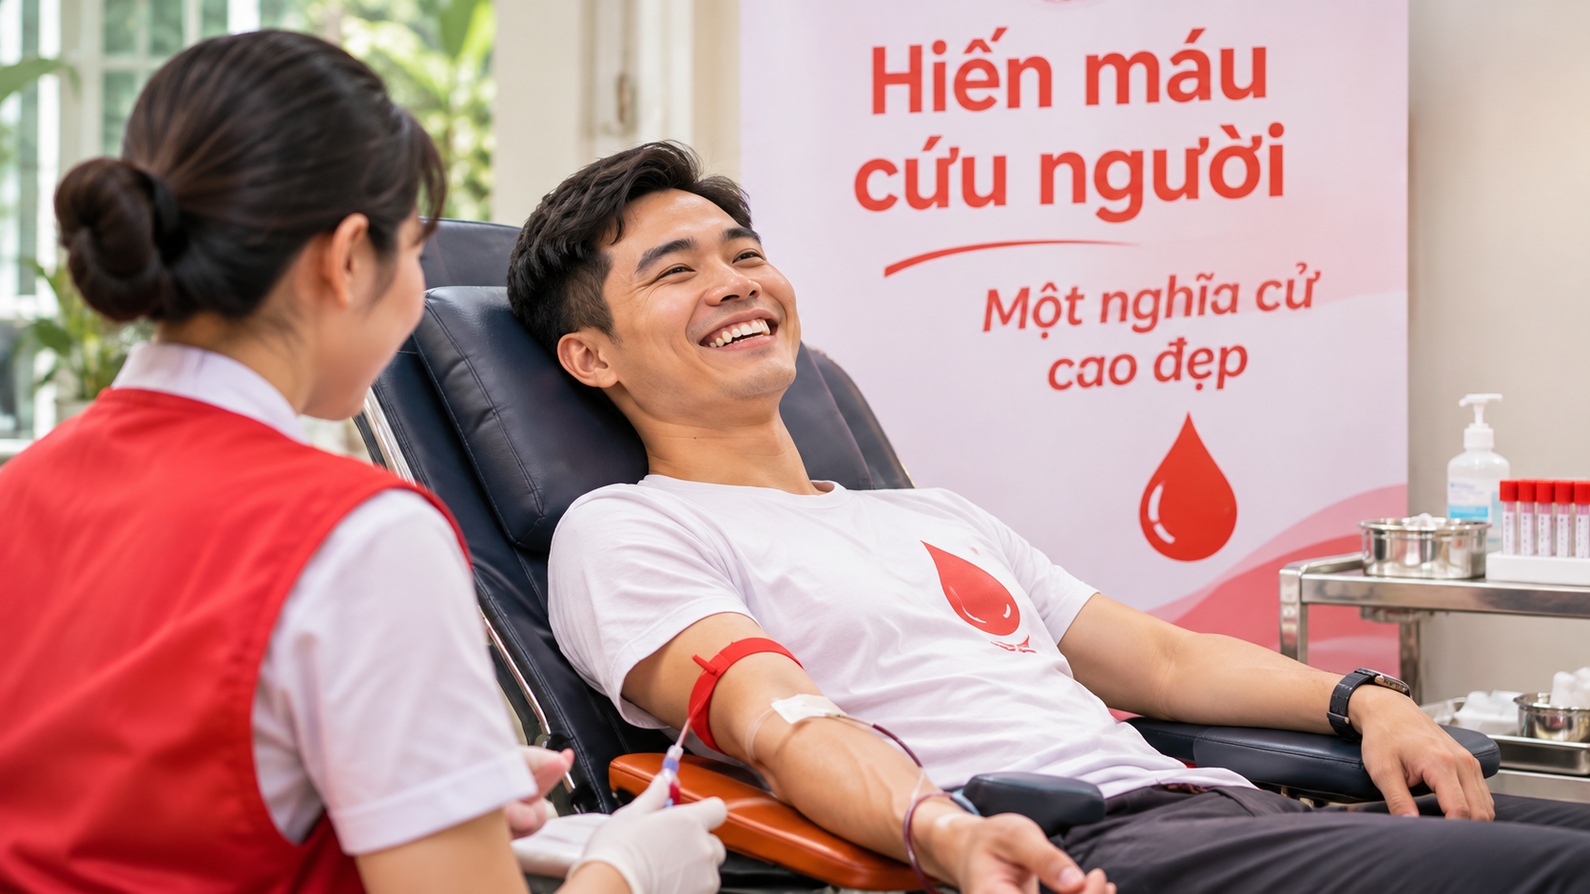
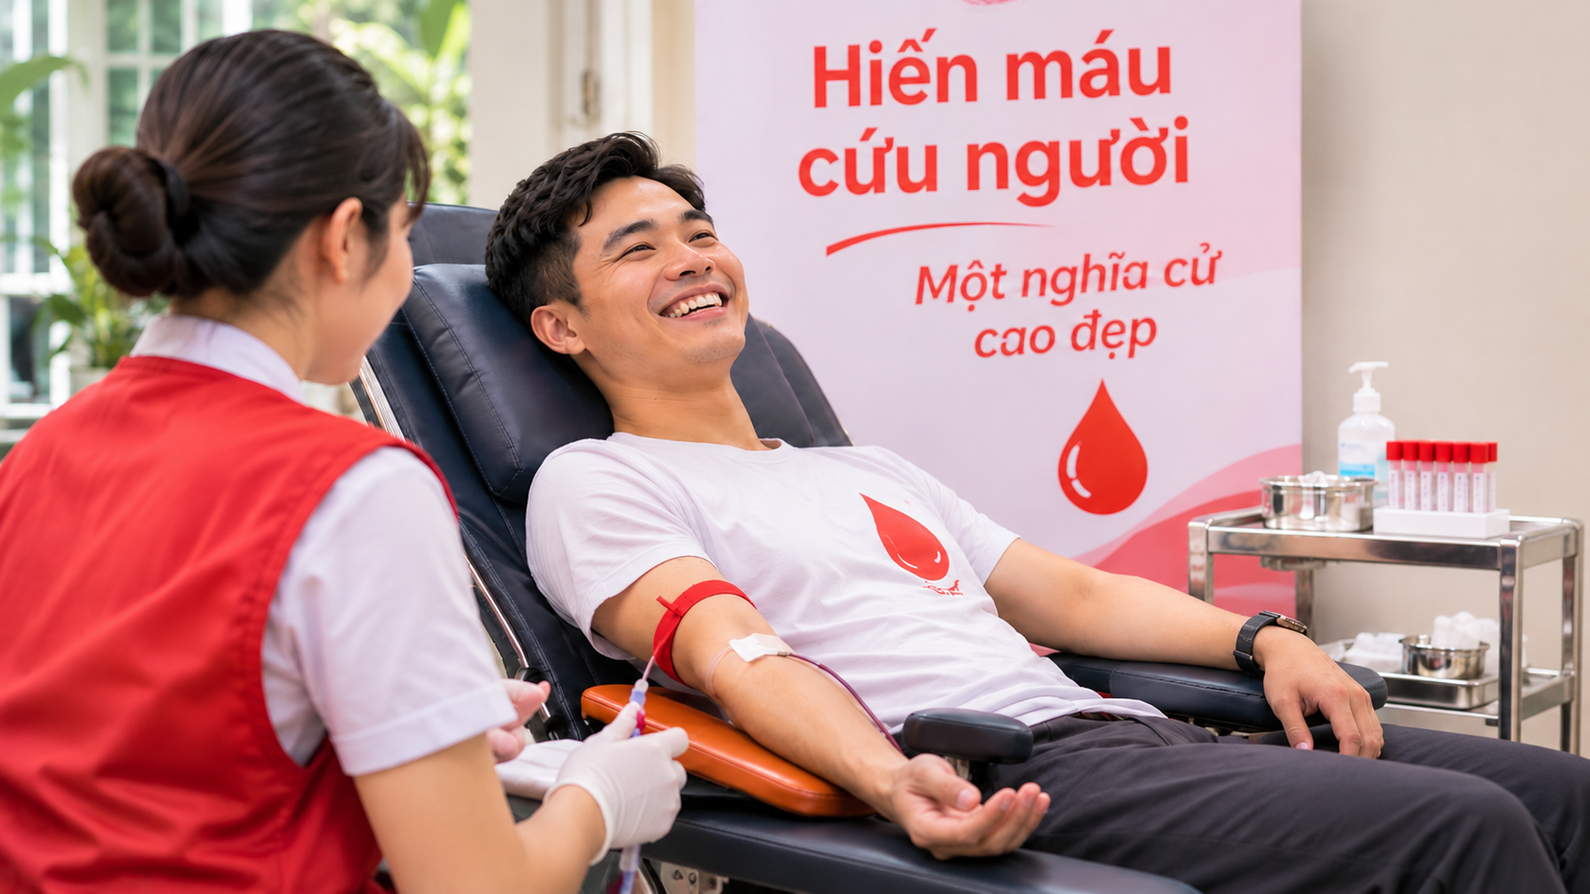
Ho so: form Dang ky hien mau chon Tinh/Thanh pho truoc, lich hien mau thang 1-12/2027; Trang chu: doi chu the Hien mau
- Form Dang ky hien mau: hang 1 gom Tinh/Thanh pho (chon truoc) · Chuong trinh hien mau (loc theo tinh) · Thoi gian va dia diem; them 12 chuong trinh "Lich hien mau thang 1-12/2027" co o moi tinh (2 buoi/thang); chu dai trong 3 o chon hien "…" + title; rut gon dia diem minh hoa Ha Noi
- Trang chu: the Hien mau doi tieu de "Hien giot mau dao, trao doi su song" va cau "Moi giot mau cho di - mot cuoc doi o lai"

diff --git a/ho-so.js b/ho-so.js
@@ -1821,30 +1821,44 @@ const VOL_KINDS = {
 // Chương trình sắp diễn ra có nhiều buổi hiến (sessions: ngày + địa điểm cụ thể) → form cho người dùng chọn 1 buổi sau khi chọn chương trình.
 // date / place: buổi đầu tiên (mặc định; chương trình đã diễn ra chỉ có 1 buổi).
 const BLOOD_EVENTS = [
-  { name: 'Hiến máu tình nguyện tại Cung Thanh niên Hà Nội', place: 'Cung Thanh niên Hà Nội (37 Trần Bình Trọng, Hà Nội)', date: '2026-11-22',
-    sessions: [{ date: '2026-11-22', place: 'Cung Thanh niên Hà Nội (37 Trần Bình Trọng, Hà Nội)' }, { date: '2026-11-23', place: 'phường Cửa Nam (Số 82 Nguyễn Du, Hà Nội)' }],
+  { name: 'Hiến máu tình nguyện tại Cung Thanh niên Hà Nội', province: 'Thành phố Hà Nội', place: 'Cung Thanh niên Hà Nội (37 Trần Bình Trọng)', date: '2026-11-22',
+    sessions: [{ date: '2026-11-22', place: 'Cung Thanh niên Hà Nội (37 Trần Bình Trọng)' }, { date: '2026-11-23', place: 'phường Cửa Nam (82 Nguyễn Du)' }],
     desc: 'Ngày hội hiến máu tình nguyện dành cho đoàn viên, sinh viên và người dân Thủ đô, góp phần bổ sung nguồn máu dự trữ cho các bệnh viện dịp cuối năm. Người hiến máu được khám sàng lọc, tư vấn sức khỏe miễn phí và nhận giấy chứng nhận hiến máu tình nguyện.' },
   // Các buổi theo mẫu khách hàng gửi (Thanh Hóa)
-  { name: 'Hiến máu tình nguyện tỉnh Thanh Hóa cuối năm 2026', place: 'phường Bỉm Sơn', date: '2026-12-01',
+  { name: 'Hiến máu tình nguyện tỉnh Thanh Hóa cuối năm 2026', province: 'Tỉnh Thanh Hóa', place: 'phường Bỉm Sơn', date: '2026-12-01',
     sessions: [{ date: '2026-12-01', place: 'phường Bỉm Sơn' }, { date: '2026-12-03', place: 'phường Nam Sầm Sơn' }, { date: '2026-12-06', place: 'xã Cẩm Thạch' }, { date: '2026-12-08', place: 'phường Quang Trung' }, { date: '2026-12-10', place: 'Cty Lọc hóa dầu Nghi Sơn' }],
     desc: 'Chuỗi ngày hội hiến máu lưu động tại các phường, xã và doanh nghiệp trên địa bàn tỉnh Thanh Hóa, tiếp nhận máu cho dịp cao điểm cuối năm. Mỗi điểm có khu tư vấn sức khỏe, khám sàng lọc và hướng dẫn chăm sóc sau hiến máu.' },
-  { name: 'Hiến máu tình nguyện khối cơ quan Hà Nội', place: 'Nhà văn hóa phường Cửa Nam (Số 82 Nguyễn Du, Hà Nội)', date: '2026-12-13',
-    sessions: [{ date: '2026-12-13', place: 'Nhà văn hóa phường Cửa Nam (Số 82 Nguyễn Du, Hà Nội)' }, { date: '2026-12-13', place: 'Viện Huyết học – Truyền máu Trung ương (26 Phạm Văn Bạch, Hà Nội)' }],
+  { name: 'Hiến máu tình nguyện khối cơ quan Hà Nội', province: 'Thành phố Hà Nội', place: 'Nhà văn hóa phường Cửa Nam (82 Nguyễn Du)', date: '2026-12-13',
+    sessions: [{ date: '2026-12-13', place: 'Nhà văn hóa phường Cửa Nam (82 Nguyễn Du)' }, { date: '2026-12-13', place: 'Viện Huyết học – Truyền máu Trung ương' }],
     desc: 'Chương trình dành cho cán bộ, công chức, người lao động các cơ quan, doanh nghiệp trên địa bàn, khuyến khích đăng ký theo đơn vị. Đơn vị có nhiều người tham gia được Hội ghi nhận và cấp giấy khen.' },
-  { name: 'Lễ hội Xuân hồng 2027', place: 'Bệnh viện Đa khoa tỉnh Hà Tĩnh', date: '2027-01-17',
+  { name: 'Lễ hội Xuân hồng 2027', province: 'Tỉnh Hà Tĩnh', place: 'Bệnh viện Đa khoa tỉnh Hà Tĩnh', date: '2027-01-17',
     sessions: [{ date: '2027-01-17', place: 'Bệnh viện Đa khoa tỉnh Hà Tĩnh' }, { date: '2027-01-18', place: 'Trung tâm Văn hóa – Điện ảnh tỉnh Hà Tĩnh' }, { date: '2027-01-19', place: 'Bệnh viện Đa khoa tỉnh Hà Tĩnh' }],
     desc: 'Lễ hội hiến máu dịp trước Tết Nguyên đán, bảo đảm đủ máu cho người bệnh trong và sau Tết. Mỗi người hiến máu nhận quà Tết, giấy chứng nhận và được ưu tiên khi cần truyền máu.' },
-  { name: 'Hiến máu tình nguyện đợt 2 năm 2026', place: 'Hội Chữ thập đỏ tỉnh Hà Tĩnh (Số 2 Phan Đình Phùng, Hà Tĩnh)', date: '2026-08-16', time: 'Từ 7h30 ngày 16/08/2026 (Chủ nhật)',
+  { name: 'Hiến máu tình nguyện đợt 2 năm 2026', province: 'Tỉnh Hà Tĩnh', place: 'Hội Chữ thập đỏ tỉnh Hà Tĩnh (Số 2 Phan Đình Phùng, Hà Tĩnh)', date: '2026-08-16', time: 'Từ 7h30 ngày 16/08/2026 (Chủ nhật)',
     desc: 'Đợt hiến máu tình nguyện thứ hai trong năm của Hội Chữ thập đỏ tỉnh Hà Tĩnh, bổ sung nguồn máu dịp hè.' },
-  { name: 'Lễ hội Xuân hồng 2026', place: 'Bệnh viện Đa khoa tỉnh Hà Tĩnh', date: '2026-02-01', time: 'Từ 7h30 ngày 01/02/2026 (Chủ nhật)',
+  { name: 'Lễ hội Xuân hồng 2026', province: 'Tỉnh Hà Tĩnh', place: 'Bệnh viện Đa khoa tỉnh Hà Tĩnh', date: '2026-02-01', time: 'Từ 7h30 ngày 01/02/2026 (Chủ nhật)',
     desc: 'Lễ hội hiến máu dịp trước Tết Nguyên đán 2026, bảo đảm đủ máu cho người bệnh trong và sau Tết.' },
-  { name: 'Ngày hội hiến máu mùa hè 2025', place: 'Trung tâm Văn hóa – Điện ảnh tỉnh Hà Tĩnh', date: '2025-07-06', time: 'Từ 7h30 ngày 06/07/2025 (Chủ nhật)',
+  { name: 'Ngày hội hiến máu mùa hè 2025', province: 'Tỉnh Hà Tĩnh', place: 'Trung tâm Văn hóa – Điện ảnh tỉnh Hà Tĩnh', date: '2025-07-06', time: 'Từ 7h30 ngày 06/07/2025 (Chủ nhật)',
     desc: 'Ngày hội hiến máu mùa hè dành cho học sinh, sinh viên và người dân trên địa bàn tỉnh.' },
 ];
+// ---------- Lịch hiến máu hằng tháng (DỮ LIỆU MINH HỌA): tháng 1 → 12/2027, mỗi tháng 1 chương trình, có ở mọi tỉnh/thành (province '*');
+// buổi hiến tạo theo tỉnh đang chọn: ngày 10 tại Trụ sở Hội Chữ thập đỏ tỉnh · ngày 25 tại Bệnh viện Đa khoa tỉnh ----------
+const BLOOD_YEAR = 2027;
+for (let m = 1; m <= 12; m++) {
+  const mm = String(m).padStart(2, '0');
+  BLOOD_EVENTS.push({ name: `Lịch hiến máu tháng ${m}/${BLOOD_YEAR}`, province: '*', monthly: { y: BLOOD_YEAR, mm }, date: `${BLOOD_YEAR}-${mm}-10`,
+    desc: `Lịch hiến máu tình nguyện định kỳ tháng ${m}/${BLOOD_YEAR} của Hội Chữ thập đỏ tỉnh/thành phố: tiếp nhận máu 2 buổi trong tháng, có khám sàng lọc, tư vấn sức khỏe và giấy chứng nhận hiến máu tình nguyện.` });
+}
 const BLOOD_NO_EVENT = { name: '', place: '', date: '', desc: '' }; // chưa chọn chương trình
 const bloodEvent = (name) => BLOOD_EVENTS.find((e) => e.name === name) || BLOOD_NO_EVENT;
-// Các buổi hiến của chương trình (chương trình 1 buổi: lấy date/place) · nhãn lựa chọn "Ngày: dd/mm/yyyy – địa điểm" (như mẫu)
-const bloodSessions = (e) => e.sessions || (e.date ? [{ date: e.date, place: e.place }] : []);
+// Các buổi hiến của chương trình (chương trình 1 buổi: lấy date/place; lịch hằng tháng: theo tỉnh) · nhãn lựa chọn "Ngày: dd/mm/yyyy – địa điểm" (như mẫu)
+const bloodSessions = (e, province = '') => {
+  if (e.monthly) {
+    const p = province ? province.charAt(0).toLowerCase() + province.slice(1) : 'tỉnh/thành phố';
+    return [{ date: `${e.monthly.y}-${e.monthly.mm}-10`, place: `Trụ sở Hội Chữ thập đỏ ${p}` }, { date: `${e.monthly.y}-${e.monthly.mm}-25`, place: `Bệnh viện Đa khoa ${p}` }];
+  }
+  return e.sessions || (e.date ? [{ date: e.date, place: e.place }] : []);
+};
 const bloodSessionLabel = (s) => `Ngày: ${viDate(s.date)} – ${s.place}`;
 // Phiếu: ngày hiến (ISO) và địa điểm đã chọn; phiếu cũ chưa có thì lấy mặc định của chương trình
 const bloodPickedDate = (d) => d.time || bloodEvent(d.event).date;
@@ -5823,9 +5837,11 @@ const bdNote = document.querySelector('#bd-screen-note');
 let bloodTrigger = null;
 let bloodSaved = ''; // dữ liệu lúc mở / lưu gần nhất — khác thì hỏi trước khi rời form
 let bloodViewing = false; // đang xem hồ sơ đã nộp (chỉ đọc)
-// ---------- Chương trình hiến máu (bắt buộc): chỉ chương trình còn mốc sắp diễn ra (từ hôm nay), sớm nhất lên đầu;
+// ---------- Tỉnh/Thành phố (chọn trước) → Chương trình hiến máu của tỉnh đó (bắt buộc): chỉ chương trình còn mốc sắp diễn ra (từ hôm nay), sớm nhất lên đầu;
 // chọn → nạp danh sách buổi hiến "Ngày: dd/mm/yyyy – địa điểm" để chọn 1 (chỉ 1 buổi thì chọn sẵn), Mô tả chương trình tự điền (khóa).
 // Xem hồ sơ cũ: chương trình / buổi đã diễn ra vẫn hiện ----------
+const bdEventProvince = document.querySelector('#bd-event-province');
+fillOptions(bdEventProvince, (window.DigitalMapLocations || []).map((p) => p.name).concat(window.DigitalMapLocations ? [] : REG_PROVINCES));
 const bdEvent = document.querySelector('#bd-event');
 const bdSession = document.querySelector('#bd-event-session');
 const sessionKey = (date, place) => (date ? `${date}|${place}` : '');
@@ -5834,22 +5850,30 @@ const fillBloodSessions = (time = '', place = '') => {
   const e = bloodEvent(bdEvent.value);
   const on = Boolean(bdEvent.value);
   const keep = sessionKey(time, place);
-  const list = bloodSessions(e).filter((s) => s.date >= isoToday() || sessionKey(s.date, s.place) === keep); // buổi đã qua chỉ hiện khi xem phiếu cũ
+  const list = bloodSessions(e, bdEventProvince.value).filter((s) => s.date >= isoToday() || sessionKey(s.date, s.place) === keep); // buổi đã qua chỉ hiện khi xem phiếu cũ
   bdSession.innerHTML = `<option value="">${on ? 'Chọn thời gian và địa điểm' : 'Chọn chương trình trước'}</option>`
     + list.map((s) => `<option value="${escapeHtml(sessionKey(s.date, s.place))}">${escapeHtml(bloodSessionLabel(s))}</option>`).join('');
   bdSession.disabled = !on;
   bdSession.value = keep || (list.length === 1 ? sessionKey(list[0].date, list[0].place) : '');
   document.querySelector('#bd-event-desc').value = e.desc;
 };
-const fillBloodEvents = (selected = '', time = '', place = '') => {
-  const lastDate = (e) => bloodSessions(e).reduce((m, s) => (s.date > m ? s.date : m), '');
-  const upcoming = BLOOD_EVENTS.filter((e) => lastDate(e) >= isoToday()).sort((a, b) => a.date.localeCompare(b.date)).map((e) => e.name);
+// province: tỉnh đang chọn (mở phiếu cũ: tỉnh của chương trình); chưa chọn tỉnh → khóa ô Chương trình
+const fillBloodEvents = (selected = '', time = '', place = '', province = selected ? bloodEvent(selected).province || '' : '') => {
+  bdEventProvince.value = province;
+  const lastDate = (e) => bloodSessions(e, province).reduce((m, s) => (s.date > m ? s.date : m), '');
+  const upcoming = BLOOD_EVENTS.filter((e) => (e.province === province || e.province === '*') && lastDate(e) >= isoToday()).sort((a, b) => a.date.localeCompare(b.date)).map((e) => e.name);
   if (selected && !upcoming.includes(selected)) upcoming.unshift(selected);
-  bdEvent.innerHTML = '<option value="">Chọn chương trình hiến máu</option>';
+  const hint = !province ? 'Chọn tỉnh/thành phố trước' : upcoming.length ? 'Chọn chương trình hiến máu' : 'Chưa có chương trình hiến máu tại tỉnh/thành phố này';
+  bdEvent.innerHTML = `<option value="">${hint}</option>`;
   fillOptions(bdEvent, upcoming);
+  bdEvent.disabled = !province;
   bdEvent.value = selected;
   fillBloodSessions(time, place);
 };
+bdEventProvince.addEventListener('change', () => {
+  fillBloodEvents('', '', '', bdEventProvince.value);
+  [bdEventProvince, bdEvent, bdSession].forEach((el) => el.closest('.pf-field').classList.remove('is-invalid'));
+});
 bdEvent.addEventListener('change', () => {
   fillBloodSessions();
   [bdEvent, bdSession].forEach((el) => el.closest('.pf-field').classList.remove('is-invalid'));
@@ -5857,6 +5881,8 @@ bdEvent.addEventListener('change', () => {
   bdLastText.closest('.pf-field').classList.remove('is-invalid');
 });
 bdSession.addEventListener('change', () => bdLastText.closest('.pf-field').classList.remove('is-invalid'));
+// Hàng 3 ô chọn: chữ dài bị "…" → rê chuột xem đủ nội dung (title = lựa chọn đang hiện)
+[bdEventProvince, bdEvent, bdSession].forEach((sel) => sel.addEventListener('change', () => { [bdEventProvince, bdEvent, bdSession].forEach((s) => { s.title = s.selectedOptions[0] ? s.selectedOptions[0].textContent : ''; }); }));
 bloodPanel.tabIndex = -1;
 
 // ---------- Nhóm nút chọn (radio): đọc / đặt giá trị theo name ----------
@@ -5965,6 +5991,7 @@ document.querySelector('#bd-phone').addEventListener('input', (event) => { event
 
 // ---------- Đọc / điền dữ liệu biểu mẫu ----------
 const bloodFormData = () => ({
+  eventProvince: bdEventProvince.value, // tỉnh/thành của chương trình (chọn trước chương trình)
   event: bdEvent.value,
   time: pickedSession().date, // buổi hiến đã chọn: ngày (ISO) · địa điểm
   place: pickedSession().place,
@@ -5992,7 +6019,8 @@ const bloodFormData = () => ({
 const loadBlood = (d) => {
   bloodForm.querySelectorAll('.pf-field.is-invalid').forEach((field) => field.classList.remove('is-invalid'));
   document.querySelector('#bd-commit-error').hidden = true;
-  fillBloodEvents(d.event, d.event ? bloodPickedDate(d) : '', d.event ? bloodPickedPlace(d) : '');
+  const evProvince = bloodEvent(d.event).province;
+  fillBloodEvents(d.event, d.event ? bloodPickedDate(d) : '', d.event ? bloodPickedPlace(d) : '', d.eventProvince || (evProvince && evProvince !== '*' ? evProvince : ''));
   setBloodProxy(Boolean(d.proxy), d.person || {});
   document.querySelector('#bd-phone').value = d.phone;
   bdAddrProvince.value = d.addrProvince || '';
@@ -6015,7 +6043,7 @@ const loadBlood = (d) => {
 };
 // Đăng ký mới: form trống (chọn chương trình trước); điện thoại lấy từ tài khoản
 const resetBlood = () => {
-  loadBlood({ event: '', time: '', place: '', proxy: false, person: null, phone: TEAM_ACCOUNT.phone, addrProvince: '', addrWard: '', address: '', work: '', ever: '', times: '', last: '', q: {}, slot: '', agree: false, privacy: false });
+  loadBlood({ eventProvince: '', event: '', time: '', place: '', proxy: false, person: null, phone: TEAM_ACCOUNT.phone, addrProvince: '', addrWard: '', address: '', work: '', ever: '', times: '', last: '', q: {}, slot: '', agree: false, privacy: false });
   bloodStatus.textContent = '';
 };
 // Chế độ: điền biểu mẫu · xem phiếu đã gửi (khóa toàn bộ, tiêu đề kèm mã phiếu, chân chỉ còn nút Đóng)

diff --git a/ho-so.html b/ho-so.html
@@ -9,7 +9,7 @@
     <link rel="preconnect" href="https://fonts.googleapis.com" />
     <link rel="preconnect" href="https://fonts.gstatic.com" crossorigin />
     <link href="https://fonts.googleapis.com/css2?family=Be+Vietnam+Pro:ital,wght@0,400;0,500;0,600;0,700;0,800;1,400&display=swap" rel="stylesheet" />
-    <link rel="stylesheet" href="styles.css?v=20261120-23" />
+    <link rel="stylesheet" href="styles.css?v=20261120-26" />
 </head>
 
 <body class="pf-page">
@@ -1621,19 +1621,23 @@
                 <div class="pf-reg-body">
                     <!-- Xem hồ sơ đã nộp: khóa toàn bộ trường bằng fieldset disabled (fieldset không tạo khung, giữ nguyên bố cục) -->
                     <fieldset class="pf-reg-fieldset" id="pf-blood-fields">
-                        <!-- ---------- Phần 1: Thông tin đợt hiến máu — chọn Chương trình hiến máu (bắt buộc, chỉ chương trình sắp diễn ra) → nạp danh sách buổi hiến "Ngày – địa điểm" của chương trình để chọn (bắt buộc), Mô tả chương trình tự điền (khóa) (ho-so.js: BLOOD_EVENTS) ---------- -->
+                        <!-- ---------- Phần 1: Thông tin đợt hiến máu — chọn Tỉnh/Thành phố trước → chọn Chương trình hiến máu của tỉnh đó (bắt buộc, chỉ chương trình sắp diễn ra) → nạp danh sách buổi hiến "Ngày – địa điểm" của chương trình để chọn (bắt buộc), Mô tả chương trình tự điền (khóa) (ho-so.js: BLOOD_EVENTS) ---------- -->
                         <section class="pf-reg-section" aria-labelledby="pf-blood-s1-title">
                             <div class="pf-reg-section-head">
                                 <h3 id="pf-blood-s1-title">1. Thông tin đợt hiến máu</h3>
                             </div>
                             <div class="pf-fields">
-                                <!-- Chương trình · Thời gian và địa điểm (mỗi ô 2 cột) cùng 1 hàng; Thời gian và địa điểm = 1 ô chọn "Ngày: dd/mm/yyyy – địa điểm", nạp theo chương trình đã chọn (ho-so.js: fillBloodSessions) -->
-                                <div class="pf-team-row4">
-                                    <div class="pf-field is-span-2">
-                                        <label for="bd-event">Chương trình hiến máu<span class="pf-req" aria-hidden="true">*</span></label>
-                                        <div class="pf-control is-select"><select id="bd-event" required><option value="">Chọn chương trình hiến máu</option></select><svg class="icon pf-caret" aria-hidden="true"><use href="#chevron-down"/></svg></div>
+                                <!-- Tỉnh/Thành phố (chọn trước) → Chương trình của tỉnh đó → Thời gian và địa điểm ("Ngày: dd/mm/yyyy – địa điểm"): 1 hàng 3 cột (220px · 1 phần · 1,3 phần — ô Thời gian và địa điểm rộng nhất) (ho-so.js: fillBloodEvents, fillBloodSessions) -->
+                                <div class="bd-event-row">
+                                    <div class="pf-field">
+                                        <label for="bd-event-province">Tỉnh/Thành phố<span class="pf-req" aria-hidden="true">*</span></label>
+                                        <div class="pf-control is-select"><select id="bd-event-province" required><option value="">Chọn tỉnh/thành phố</option></select><svg class="icon pf-caret" aria-hidden="true"><use href="#chevron-down"/></svg></div>
                                     </div>
-                                    <div class="pf-field is-span-2">
+                                    <div class="pf-field">
+                                        <label for="bd-event">Chương trình hiến máu<span class="pf-req" aria-hidden="true">*</span></label>
+                                        <div class="pf-control is-select"><select id="bd-event" required disabled><option value="">Chọn tỉnh/thành phố trước</option></select><svg class="icon pf-caret" aria-hidden="true"><use href="#chevron-down"/></svg></div>
+                                    </div>
+                                    <div class="pf-field">
                                         <label for="bd-event-session">Thời gian và địa điểm<span class="pf-req" aria-hidden="true">*</span></label>
                                         <div class="pf-control is-select"><select id="bd-event-session" required disabled><option value="">Chọn chương trình trước</option></select><svg class="icon pf-caret" aria-hidden="true"><use href="#chevron-down"/></svg></div>
                                     </div>
@@ -2011,7 +2015,7 @@
     <script src="team-members.js?v=20261023-1" defer></script>
     <!-- Danh mục hành chính 34 tỉnh/thành · 3.321 phường/xã (dùng chung với Bản đồ số) — Địa chỉ liên lạc trong form Đăng ký hiến máu -->
     <script src="ban-do-so-locations.js" defer></script>
-    <script src="ho-so.js?v=20261120-17" defer></script>
+    <script src="ho-so.js?v=20261120-19" defer></script>
 </body>
 
 </html>

diff --git a/index.html b/index.html
@@ -385,8 +385,8 @@
                             <li class="chapter-intro has-figure">
                                 <div class="chapter-figure"><img src="Emages/QU%E1%BB%B9%20nh%C3%A2n%20%C4%91%E1%BA%A1o/N%E1%BB%A5%20c%C6%B0%E1%BB%9Di%20trao%20gi%E1%BB%8Dt%20m%C3%A1u%20h%E1%BB%93ng.png" alt="Người hiến máu tươi cười trên ghế hiến máu, tình nguyện viên Chữ thập đỏ ngồi bên cạnh" width="1672" height="941" loading="lazy" decoding="async" /></div>
                                 <div class="chapter-intro-text">
-                                    <h3 class="section-title">Hiến máu cứu người, một nghĩa cử cao đẹp</h3>
-                                    <p class="section-lead">Mỗi giọt máu cho đi là một cuộc đời ở lại. Đăng ký tham gia hiến máu tình nguyện cùng Hội Chữ thập đỏ tại các điểm hiến máu gần nơi bạn sống.</p>
+                                    <h3 class="section-title">Hiến giọt máu đào, trao đời sự sống</h3>
+                                    <p class="section-lead">Mỗi giọt máu cho đi - một cuộc đời ở lại. Đăng ký tham gia hiến máu tình nguyện cùng Hội Chữ thập đỏ tại các điểm hiến máu gần nơi bạn sống.</p>
                                     <div class="chapter-actions">
                                         <a class="button button-primary" href="#" data-panel="Đăng ký hiến máu" data-magnetic>Đăng ký hiến máu</a>
                                     </div>

diff --git a/styles.css b/styles.css
@@ -2533,6 +2533,11 @@ html.pf-reg-lock{overflow:hidden}
 /* Sàng lọc sức khỏe: Có / Không không có khung viền — chỉ nút tròn + chữ (cả khi xem hồ sơ) */
 .pf-reg-fieldset [data-screen-q] .pf-radio-group{gap:8px 32px}
 .pf-reg-fieldset [data-screen-q] .pf-radio{min-height:24px;padding:0;border:0;background:none}
+/* Đợt hiến máu: Tỉnh/Thành phố (210px) · Chương trình · Thời gian và địa điểm cùng 1 hàng (ô Thời gian và địa điểm rộng nhất); màn hẹp: Tỉnh | Chương trình rồi Thời gian và địa điểm cả hàng · điện thoại 1 cột */
+.bd-event-row{display:grid;grid-column:1 / -1;grid-template-columns:210px minmax(0,1fr) minmax(0,1.2fr);gap:16px 20px}
+.bd-event-row select{text-overflow:ellipsis} /* chữ quá dài: "…" (đủ nội dung ở title — ho-so.js) */
+@media(max-width:1023px){.bd-event-row{grid-template-columns:repeat(2,minmax(0,1fr))}.bd-event-row > :last-child{grid-column:1 / -1}}
+@media(max-width:767px){.bd-event-row{grid-template-columns:minmax(0,1fr)}}
 /* Khung giờ sáng / chiều: 8 ô bằng nhau, thẳng cột giữa 2 buổi (lưới 4 cột, khoảng cách cột như .pf-team-row4); màn hẹp 2 cột, điện thoại 1 cột */
 .pf-radio-group.bd-slot-grid{display:grid;grid-template-columns:repeat(4,minmax(0,1fr));gap:8px 20px} /* 2 class: thắng .pf-radio-group{display:flex} khai báo phía sau */
 @media(max-width:1023px){.pf-radio-group.bd-slot-grid{grid-template-columns:repeat(2,minmax(0,1fr))}}
